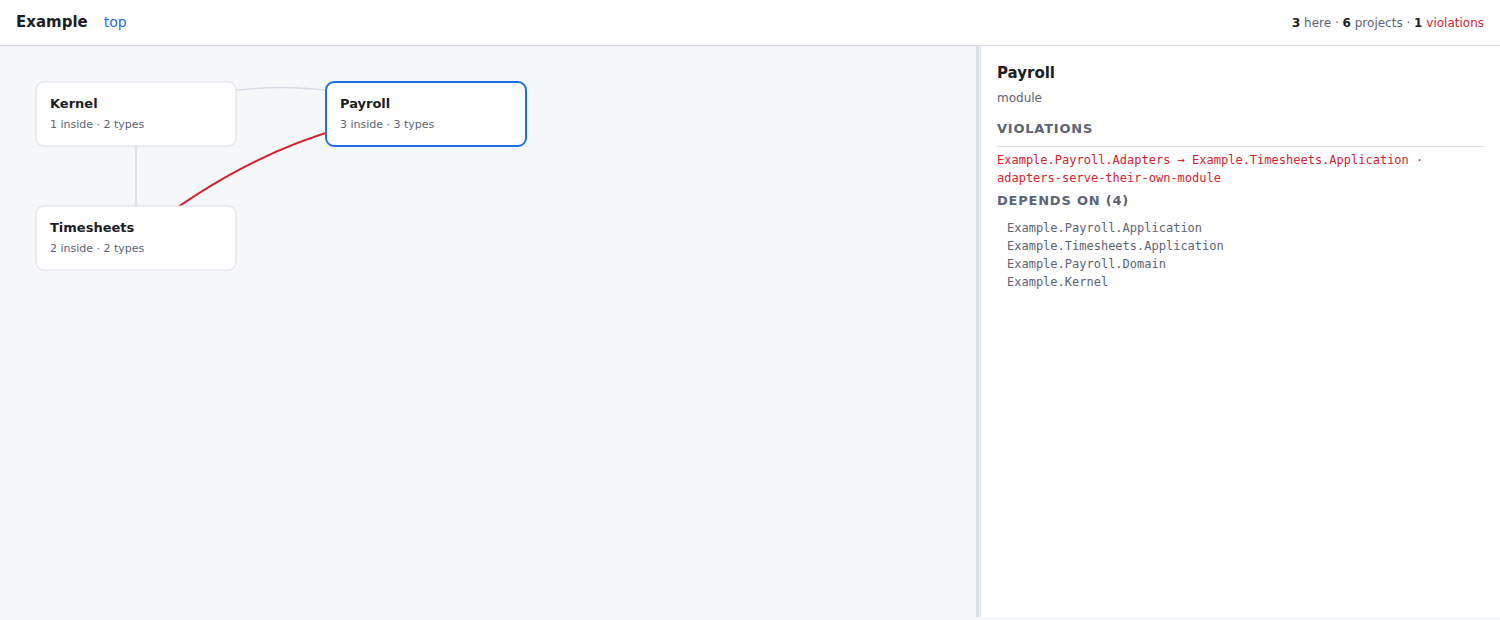
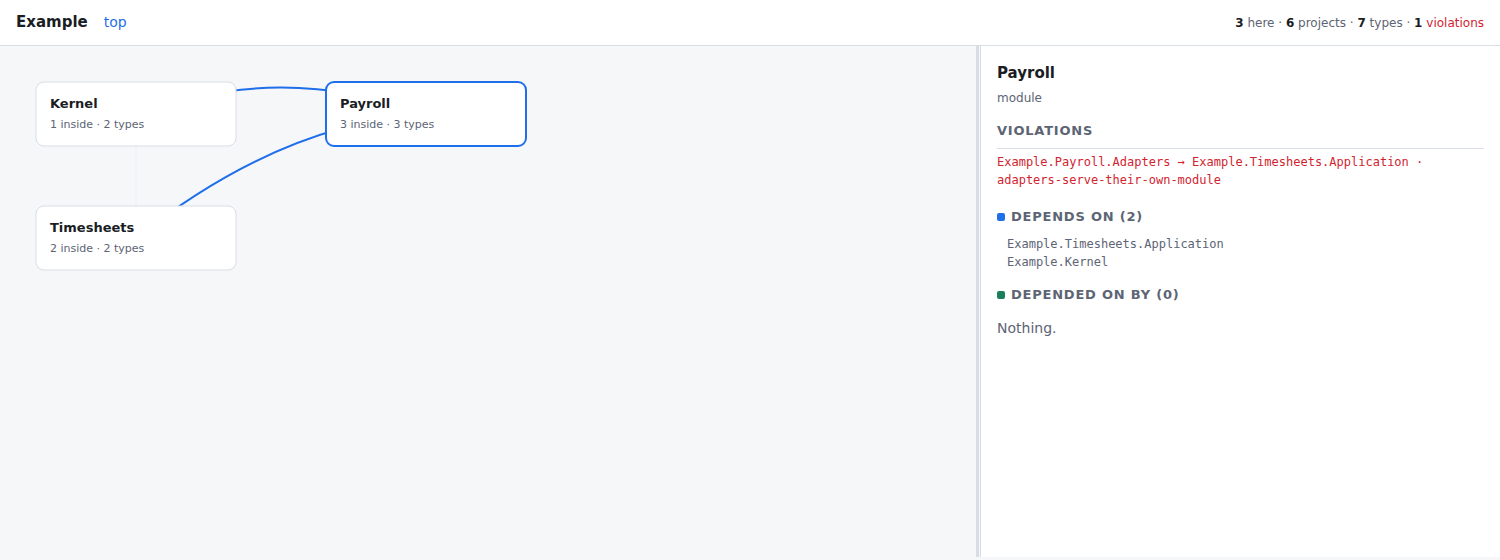
Three things a reader asked for, in one pass
**Types are drawn, not only listed.** A container holding forty types but no
nested containers used to show an empty canvas with the types in a list at
the side. The types are what it holds, so they are what it draws — dashed
boxes, to tell them from containers. Clicking one opens its source, as
clicking its name in the list already did.

No edges between types: the model carries references between containers,
not between types, and lines standing for nothing measured are decoration.

**A selected box says what it reaches and what reaches it.** Outgoing edges
turn blue, incoming green, the rest of the mesh fades. Those are the two
questions a dependency graph is asked, and with two hundred edges the mesh
otherwise answers neither. The panel gained "depended on by" beside "depends
on", with the same two colours as keys.

**"Depends on" stopped counting the container's own insides.** A module of
five projects referencing each other listed its own members as dependencies,
which said nothing about the module.

Screenshots refreshed from the example, as before — never from a private
repository.

diff --git a/viewer/index.html b/viewer/index.html
@@ -43,7 +43,11 @@
   .grip:hover { background: var(--accent); }
   @media (max-width: 860px) { aside { border-left: none; border-top: 1px solid var(--line); } }
   aside h2 { font-size: 13px; text-transform: uppercase; letter-spacing: .06em;
-             color: var(--dim); margin: 0 0 8px; font-weight: 600; }
+             color: var(--dim); margin: 14px 0 8px; font-weight: 600; }
+  .out-dot, .into-dot { display: inline-block; width: 8px; height: 8px;
+                        border-radius: 2px; margin-right: 6px; }
+  .out-dot { background: var(--accent); }
+  .into-dot { background: var(--ok); }
   aside h3 { font-size: 15px; margin: 0 0 4px; }
   .kind { color: var(--dim); font-size: 12px; margin-bottom: 12px; }
   .type { padding: 6px 0; border-top: 1px solid var(--line); }
@@ -78,9 +82,13 @@
   g.node.sel rect { stroke: var(--accent); stroke-width: 2; }
   g.node text { fill: var(--ink); font-size: 13px; font-weight: 600; pointer-events: none; }
   g.node text.sub { fill: var(--dim); font-size: 11px; font-weight: 400; }
+  g.type-node rect { stroke-dasharray: 3 2; }
+  g.type-node.sel rect { stroke-dasharray: none; }
   path.edge { fill: none; stroke: var(--line); stroke-width: 1.5; marker-end: url(#a); }
   path.edge.bad { stroke: var(--bad); stroke-width: 2; marker-end: url(#ab); }
-  path.edge.hot { stroke: var(--accent); marker-end: url(#ah); }
+  path.edge.out { stroke: var(--accent); stroke-width: 2; marker-end: url(#ah); }
+  path.edge.into { stroke: var(--ok); stroke-width: 2; marker-end: url(#ai); }
+  path.edge.faint { opacity: .18; }
   text.rule { fill: var(--bad); font-size: 10px;
               font-family: ui-monospace, Menlo, Consolas, monospace; }
 </style>
@@ -161,8 +169,17 @@ function render() {
   const canvas = document.getElementById('canvas');
   canvas.innerHTML = '';
 
+  // A container with no children but plenty of types used to show an empty
+  // canvas while the types sat in a list on the side. The types are what it
+  // holds, so they are what it draws.
   if (nodes.length === 0) {
-    canvas.innerHTML = '<p class="empty">Nothing nested here. Pick a box to inspect it.</p>';
+    const types = (current && current.types) || [];
+    if (types.length) {
+      drawTypes(canvas, current, types);
+      if (!state.selected) select(current);
+      return;
+    }
+    canvas.innerHTML = '<p class="empty">Nothing here.</p>';
     if (current) select(current);
     return;
   }
@@ -190,11 +207,59 @@ function render() {
   canvas.appendChild(svg);
 }
 
+// Types drawn as boxes. No edges between them: the model carries references
+// between containers, not between types, and drawing lines that stand for
+// nothing measured would be decoration.
+function drawTypes(canvas, owner, types) {
+  const W = 190, H = 52, GX = 22, GY = 20;
+  const cols = Math.max(1, Math.min(6, Math.floor((canvas.clientWidth - 40) / (W + GX)) || 4));
+  const rows = Math.ceil(types.length / cols);
+  const width = cols * (W + GX) + 40, height = rows * (H + GY) + 40;
+
+  const svg = document.createElementNS('http://www.w3.org/2000/svg', 'svg');
+  svg.setAttribute('width', width);
+  svg.setAttribute('height', height);
+  svg.setAttribute('viewBox', `0 0 ${width} ${height}`);
+
+  types.forEach((t, i) => {
+    const x = (i % cols) * (W + GX) + 20;
+    const y = Math.floor(i / cols) * (H + GY) + 20;
+    const g = document.createElementNS('http://www.w3.org/2000/svg', 'g');
+    g.setAttribute('class', 'node type-node' + (state.openType === t.id ? ' sel' : ''));
+
+    const r = document.createElementNS('http://www.w3.org/2000/svg', 'rect');
+    r.setAttribute('x', x); r.setAttribute('y', y);
+    r.setAttribute('width', W); r.setAttribute('height', H);
+
+    const label = document.createElementNS('http://www.w3.org/2000/svg', 'text');
+    label.setAttribute('x', x + 12); label.setAttribute('y', y + 22);
+    label.textContent = trim(t.name, 22);
+
+    const sub = document.createElementNS('http://www.w3.org/2000/svg', 'text');
+    sub.setAttribute('class', 'sub');
+    sub.setAttribute('x', x + 12); sub.setAttribute('y', y + 40);
+    sub.textContent = [t.stereotype, (t.members || []).length ? (t.members.length + ' members') : null]
+      .filter(Boolean).join(' · ');
+
+    g.append(r, label, sub);
+    g.addEventListener('click', ev => {
+      ev.stopPropagation();
+      state.openType = state.openType === t.id ? null : t.id;
+      render();
+      select(owner);
+    });
+    svg.appendChild(g);
+  });
+
+  canvas.appendChild(svg);
+}
+
 function markers() {
   const one = (id, colour) =>
     `<marker id="${id}" viewBox="0 0 10 10" refX="9" refY="5" markerWidth="6" markerHeight="6"
       orient="auto-start-reverse"><path d="M0,0 L10,5 L0,10 z" fill="${colour}"/></marker>`;
-  return `<defs>${one('a', 'var(--line)')}${one('ab', 'var(--bad)')}${one('ah', 'var(--accent)')}</defs>`;
+  return `<defs>${one('a', 'var(--line)')}${one('ab', 'var(--bad)')}` +
+         `${one('ah', 'var(--accent)')}${one('ai', 'var(--ok)')}</defs>`;
 }
 
 function edgePath(pos, e, W, H) {
@@ -203,12 +268,24 @@ function edgePath(pos, e, W, H) {
   const x1 = a.x + W / 2, y1 = a.y + H / 2, x2 = b.x + W / 2, y2 = b.y + H / 2;
   const mx = (x1 + x2) / 2, my = (y1 + y2) / 2 - Math.abs(x2 - x1) * 0.12 - 18;
   p.setAttribute('d', `M${x1},${y1} Q${mx},${my} ${x2},${y2}`);
-  p.setAttribute('class', 'edge' + (e.violates ? ' bad' : ''));
-  if (e.violates) {
-    const t = document.createElementNS('http://www.w3.org/2000/svg', 'title');
-    t.textContent = `${e.from} → ${e.to} breaks ${e.violates}`;
-    p.appendChild(t);
-  }
+
+  // With a box selected the rest of the mesh is noise: what it reaches and
+  // what reaches it are the two questions a dependency graph is asked.
+  const out = state.selected === e.from;
+  const into = state.selected === e.to;
+  const dim = state.selected && !out && !into;
+
+  p.setAttribute('class', 'edge'
+    + (e.violates ? ' bad' : '')
+    + (out ? ' out' : '')
+    + (into ? ' into' : '')
+    + (dim ? ' faint' : ''));
+
+  const t = document.createElementNS('http://www.w3.org/2000/svg', 'title');
+  t.textContent = e.violates
+    ? `${short(e.from)} → ${short(e.to)} breaks ${e.violates}`
+    : `${short(e.from)} → ${short(e.to)}`;
+  p.appendChild(t);
   return p;
 }
 
@@ -297,7 +374,7 @@ function select(n) {
   // thing, and listing it twice says nothing the first line did not.
   const inside = leavesOf(n);
   const out = [...new Map(
-    MODEL.edges.filter(e => inside.includes(e.from)).map(e => [e.to, e])
+    MODEL.edges.filter(e => inside.includes(e.from) && !inside.includes(e.to)).map(e => [e.to, e])
   ).values()];
 
   let html = `<h3>${esc(n.label)}</h3><div class="kind">${esc(n.kind)}${n.role ? ' · ' + esc(n.role) : ''}</div>`;
@@ -308,9 +385,18 @@ function select(n) {
     for (const e of bad) html += `<div class="viol">${esc(short(e.from))} → ${esc(short(e.to))} · ${esc(e.violates)}</div>`;
   }
 
-  html += `<h2>Depends on (${out.length})</h2>`;
+  const into = [...new Map(
+    MODEL.edges.filter(e => inside.includes(e.to) && !inside.includes(e.from)).map(e => [e.from, e])
+  ).values()];
+
+  html += `<h2><span class="out-dot"></span>Depends on (${out.length})</h2>`;
   html += out.length
     ? out.map(e => `<div class="member">${esc(short(e.to))}</div>`).join('')
+    : '<p class="empty">Nothing.</p>';
+
+  html += `<h2><span class="into-dot"></span>Depended on by (${into.length})</h2>`;
+  html += into.length
+    ? into.map(e => `<div class="member">${esc(short(e.from))}</div>`).join('')
     : '<p class="empty">Nothing.</p>';
 
   if (types.length) {
